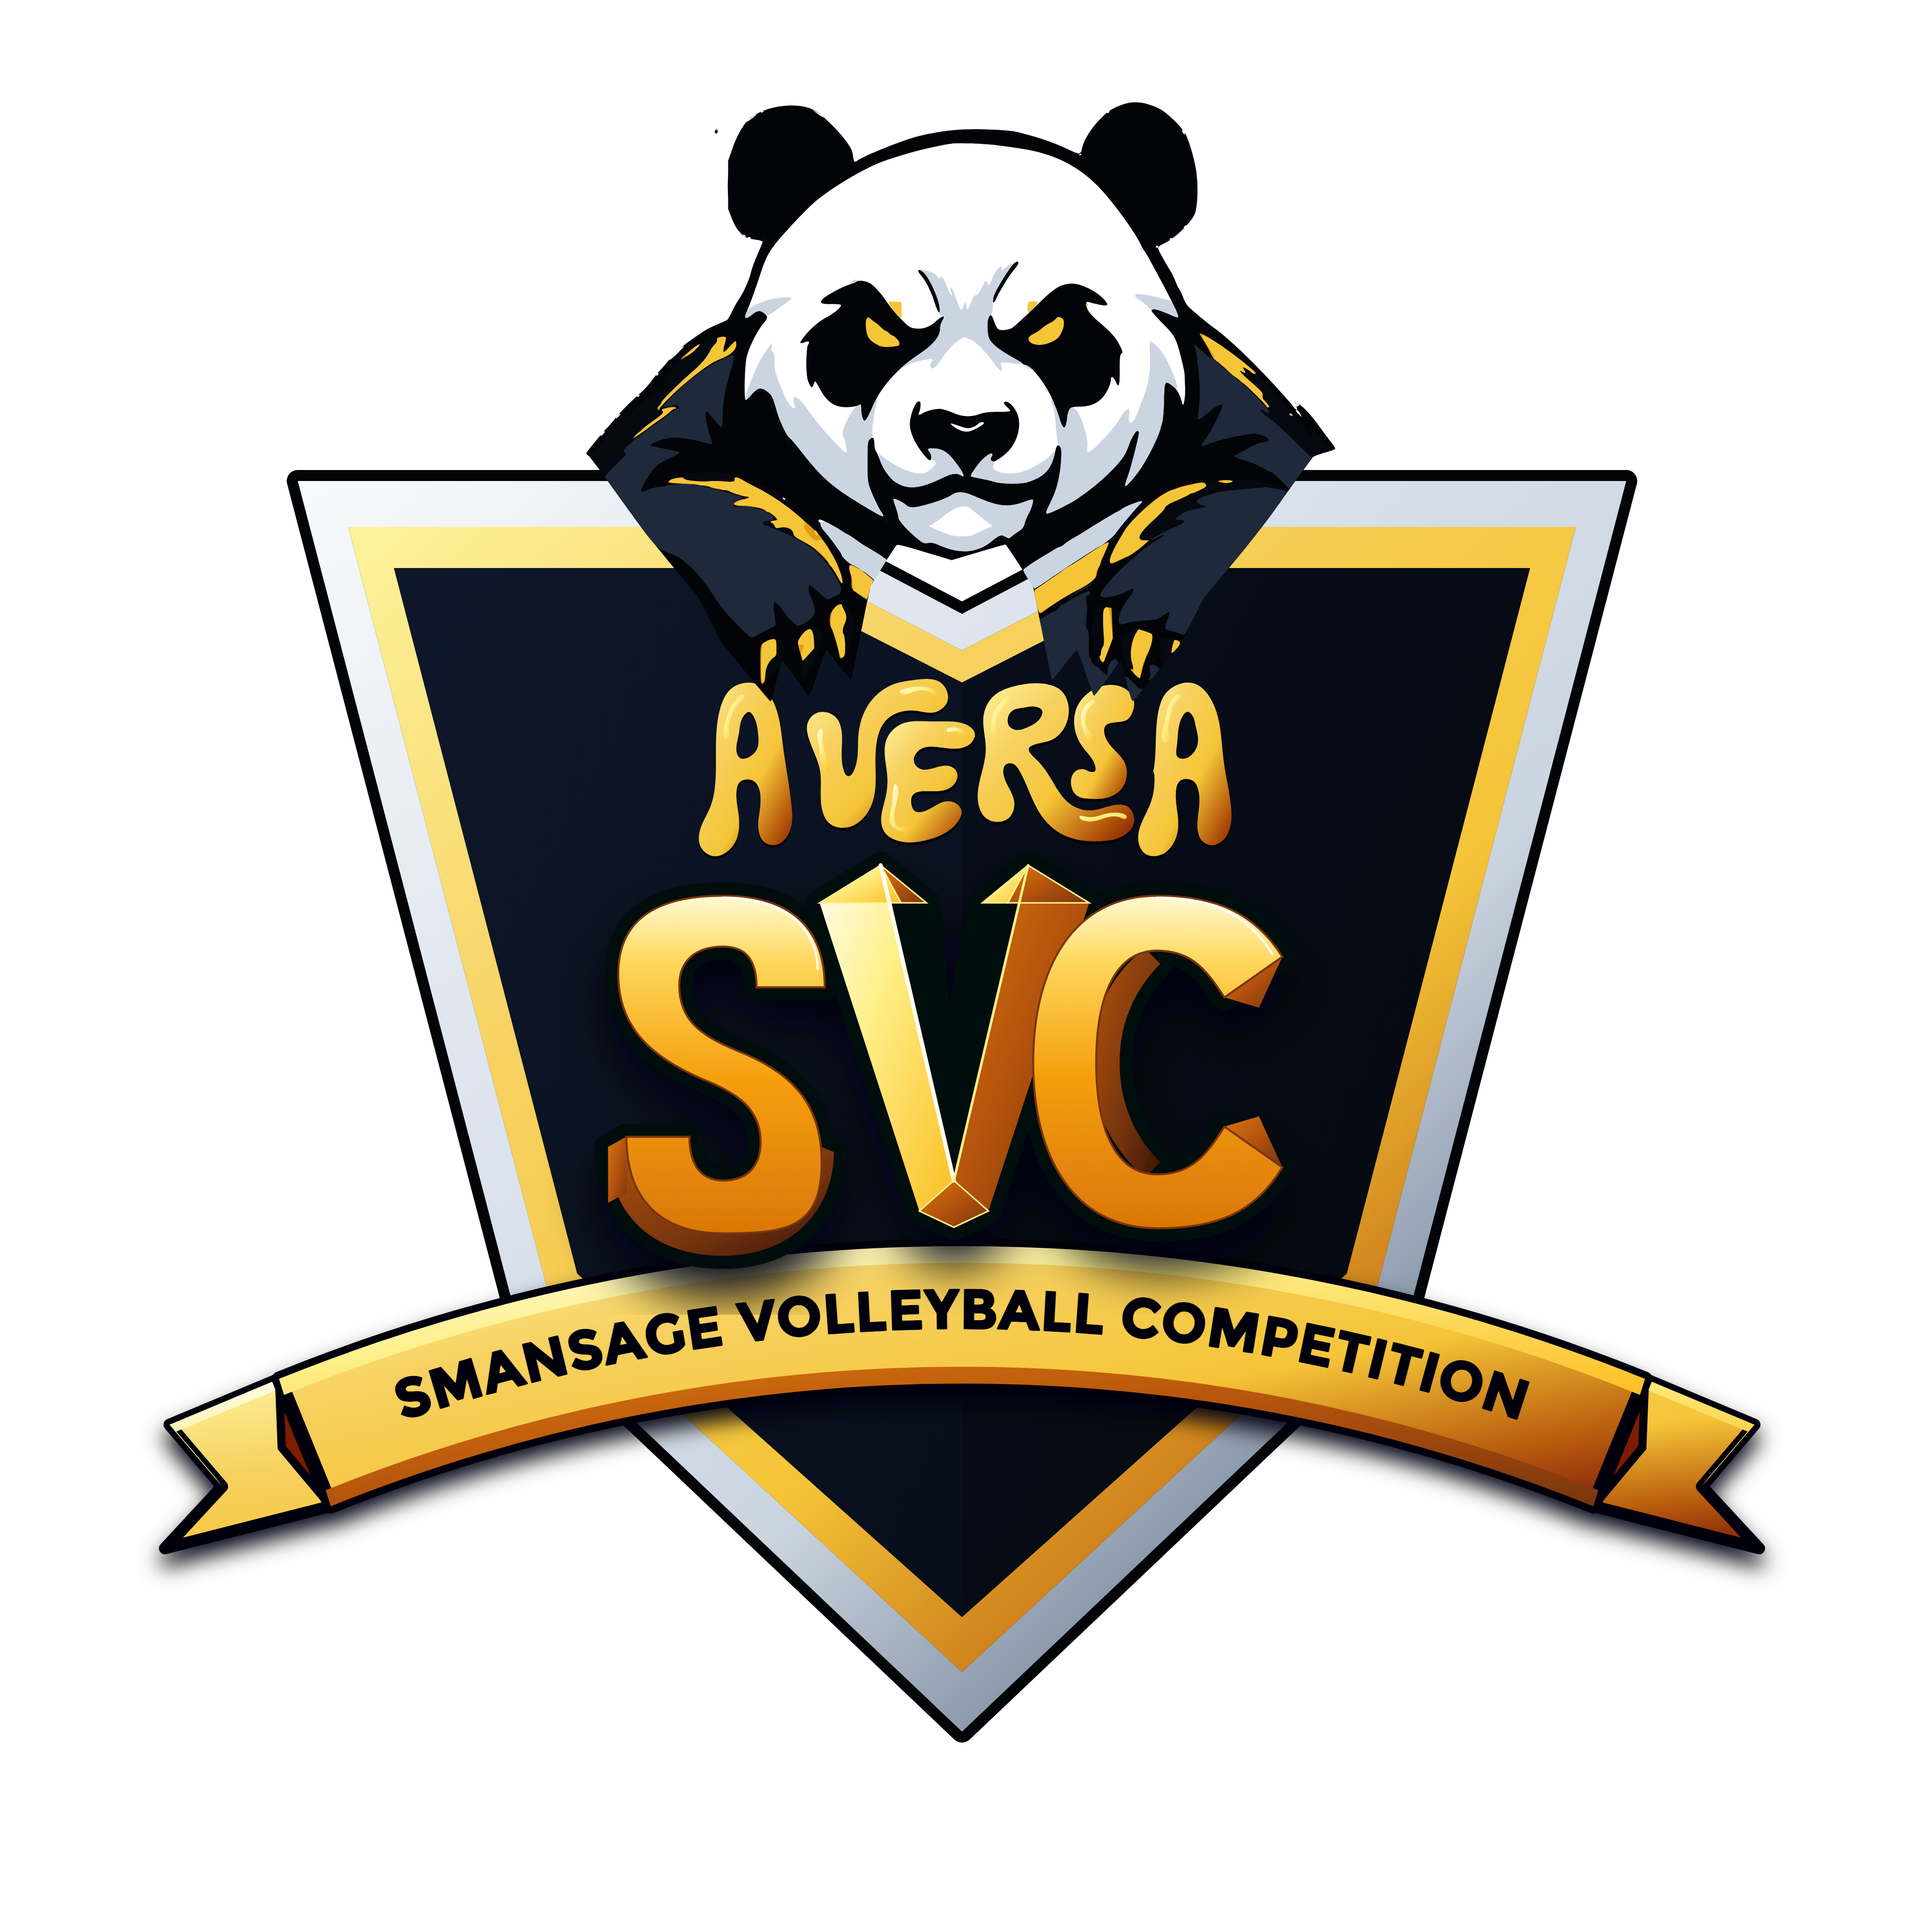
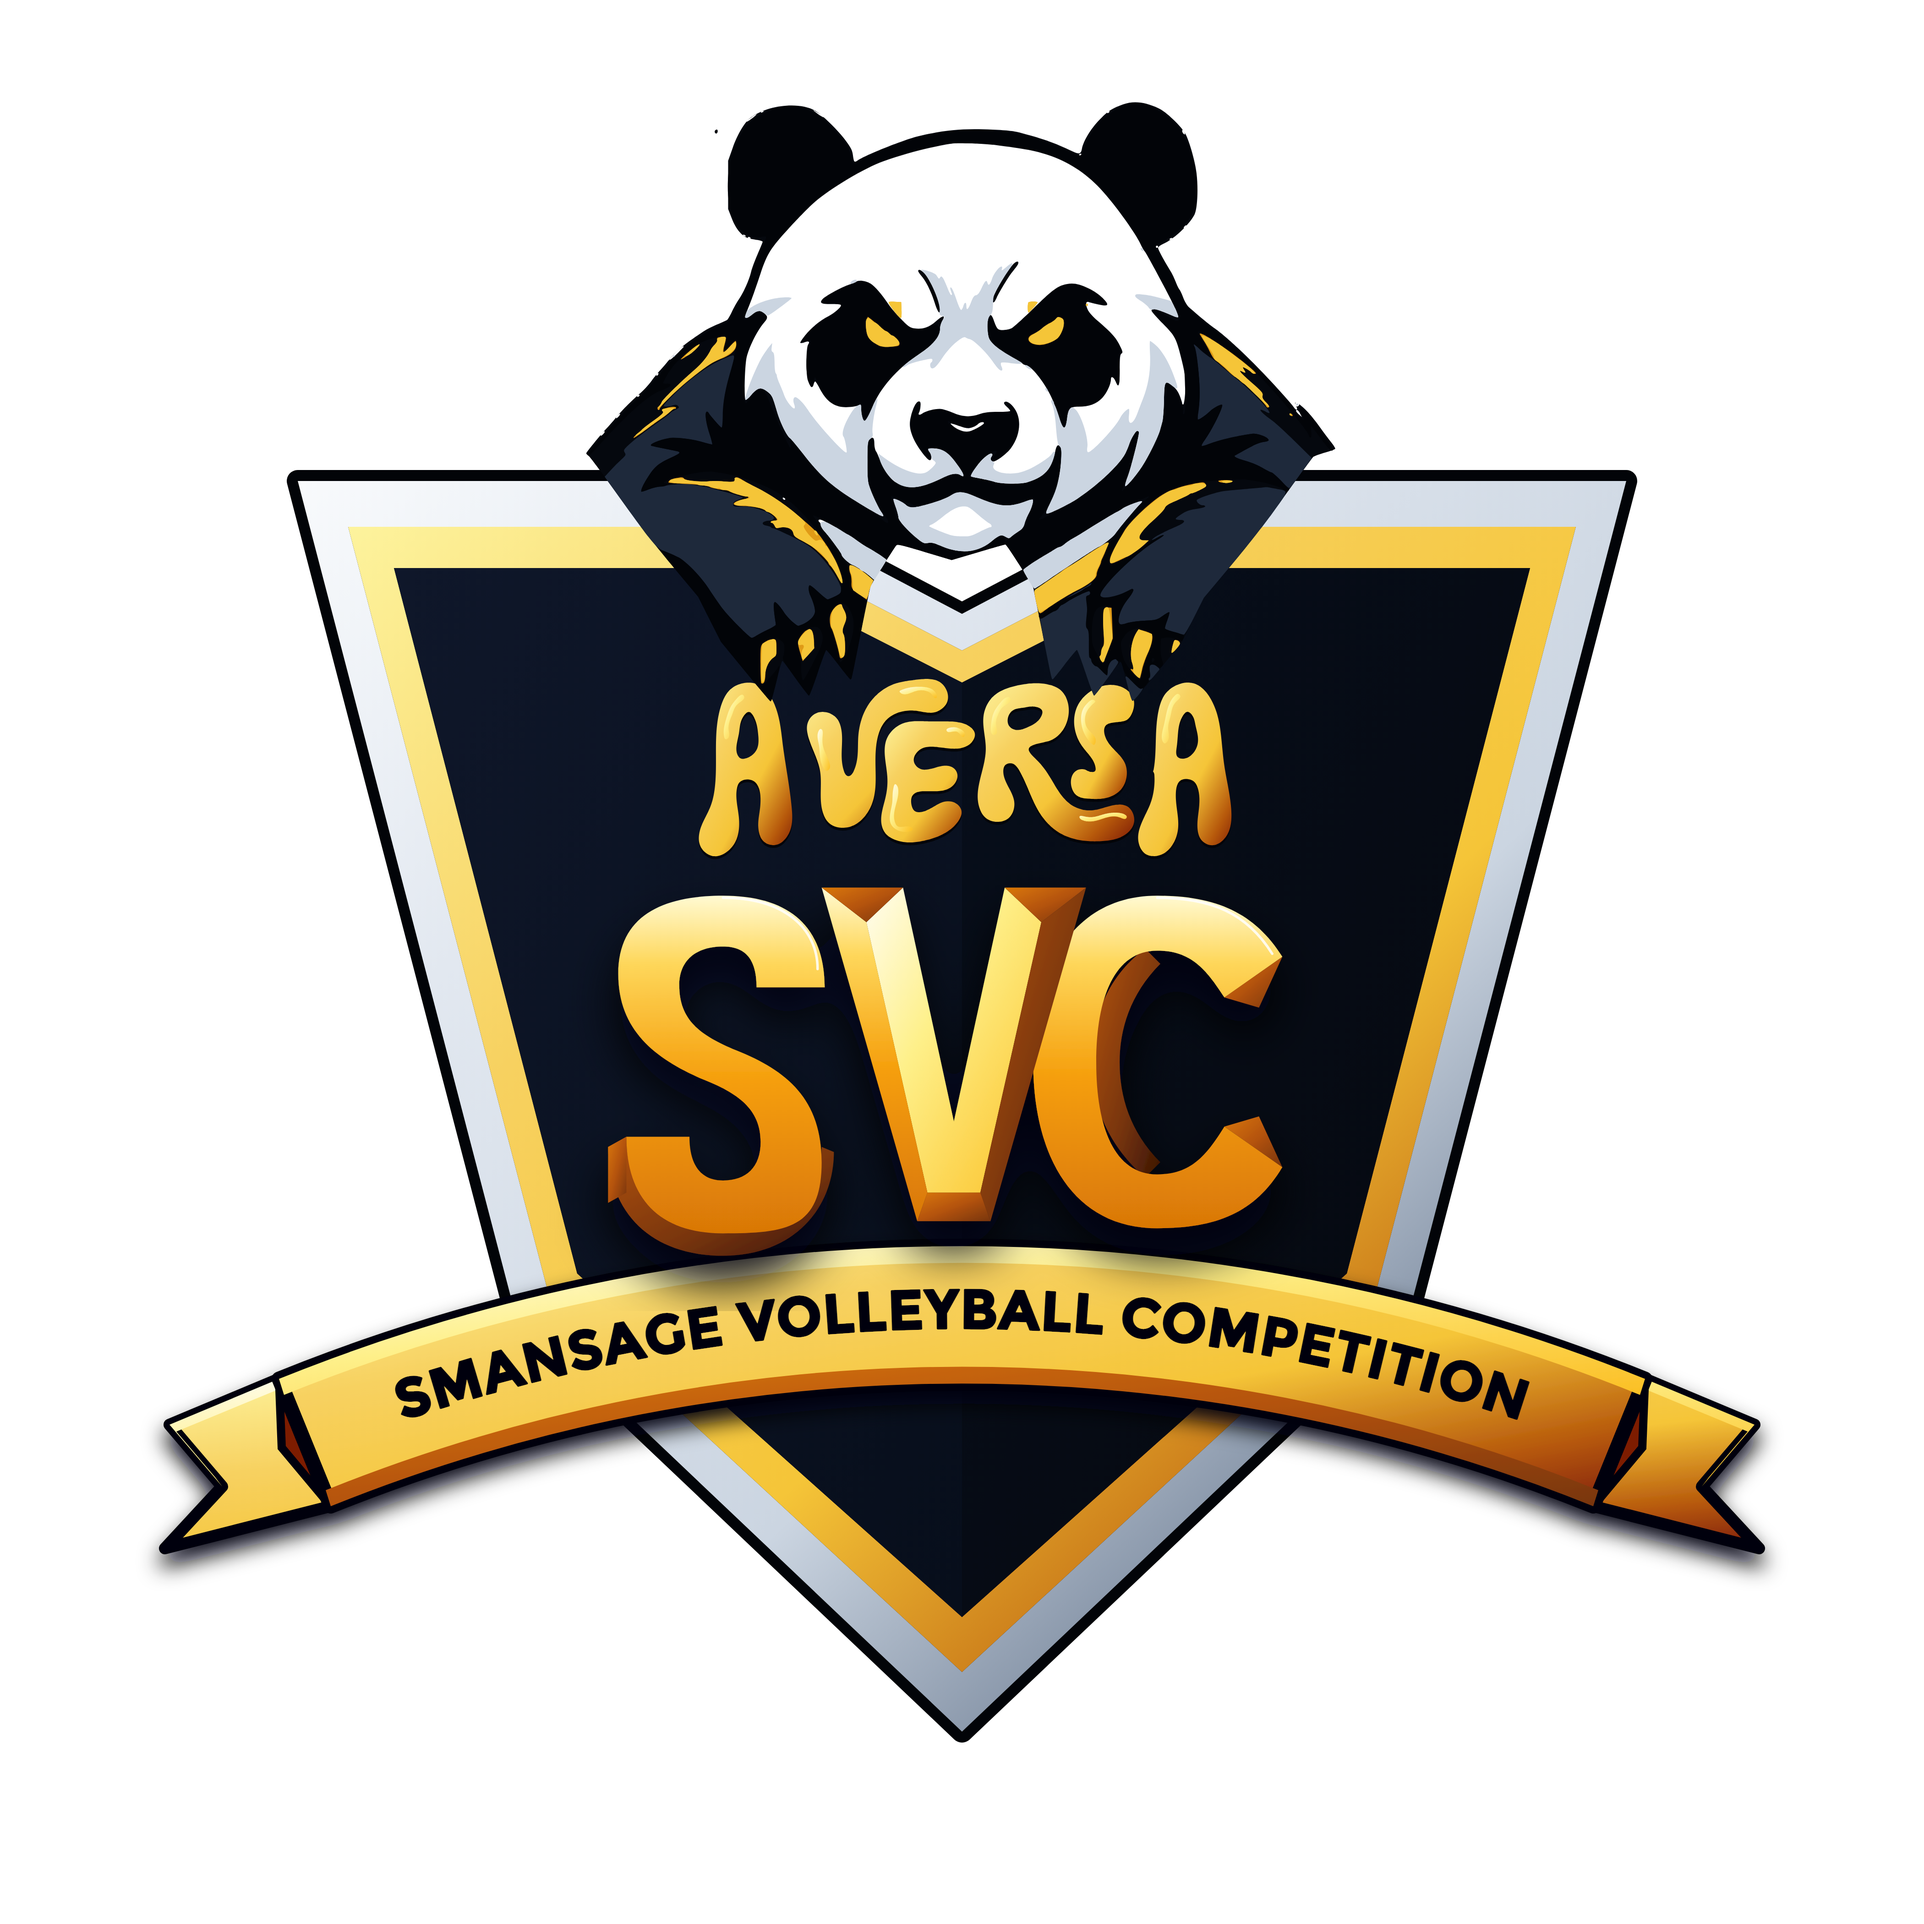
fix(svc): remove heavy black backplate outline and clean up smooth faceted V geometry matching hand draw

Changed region(s): [[0.4055, 0.4367, 0.5614, 0.6862], [0.3119, 0.6238, 0.4367, 0.6862], [0.5614, 0.6238, 0.655, 0.6862]]

diff --git a/v6_detailing/scripts/build_svc_crest_master.py b/v6_detailing/scripts/build_svc_crest_master.py
@@ -207,86 +207,62 @@ def build_chiseled_svc_svg(mode):
         light_fill = "url(#goldLightFacet)"
         dark_fill = "url(#goldDarkFacet)"
         depth_fill = "url(#goldDepth)"
-        bp_fill = "#05080E"
-        bp_stroke = "#05080E"
-        front_stroke = "#78350F"
-        spine_light = "#FFFDF0"
-        spine_gold = "#FEF08A"
+        poly_stroke = ""
         show_highlights = True
     elif is_white:
         face_fill = "#FFFFFF"
         light_fill = "#FFFFFF"
         dark_fill = "#E2E8F0"
         depth_fill = "#CBD5E1"
-        bp_fill = "#FFFFFF"
-        bp_stroke = "#000000"
-        front_stroke = "#000000"
-        spine_light = "#000000"
-        spine_gold = "#000000"
+        poly_stroke = ' stroke="#000000" stroke-width="3" stroke-linejoin="round"'
         show_highlights = False
     else:
         face_fill = "#94A3B8"
         light_fill = "#CBD5E1"
         dark_fill = "#475569"
         depth_fill = "#1E293B"
-        bp_fill = "#020408"
-        bp_stroke = "#020408"
-        front_stroke = "#334155"
-        spine_light = "#F8FAFC"
-        spine_gold = "#94A3B8"
+        poly_stroke = ""
         show_highlights = True
     
     lines = []
     
-    # 0. OBSIDIAN BACKPLATE / SPORT CONTOUR
-    lines.append('      <!-- 0. OBSIDIAN BACKPLATE SILHOUETTE -->')
-    lines.append(f'      <g id="svc-backplate" stroke="{bp_stroke}" stroke-width="26" stroke-linejoin="round" stroke-linecap="round" fill="{bp_fill}">')
-    lines.append('        <path d="M 175 88 C 242 88 275 120 275 178 L 208 178 C 208 148 195 138 175 138 C 148 138 132 152 132 176 C 132 210 152 225 188 240 C 238 260 272 288 272 350 C 272 415 238 420 175 420 C 112 420 80 385 80 325 L 142 325 C 142 355 155 368 175 368 C 198 368 212 355 212 330 C 212 298 190 282 154 268 C 108 248 72 220 72 165 C 72 108 115 88 175 88 Z"/>')
-    lines.append('        <path d="M 80 325 L 62 335 C 62 400 105 442 175 442 C 245 442 284 395 284 340 L 272 335 C 272 385 238 420 175 420 C 112 420 80 380 80 325 Z"/>')
-    lines.append('        <polygon points="270,95 330,58 375,95 402,368 436,398 402,414 368,398"/>')
-    lines.append('        <polygon points="430,95 475,58 535,95 436,398 402,368 368,398"/>')
-    lines.append('        <path d="M 725 148 L 668 188 C 650 160 635 142 602 142 C 560 142 542 188 542 252 C 542 316 560 362 602 362 C 635 362 650 344 668 315 L 725 355 C 698 400 660 415 602 415 C 520 415 480 345 480 252 C 480 158 520 88 602 88 C 660 88 698 105 725 148 Z"/>')
-    lines.append('        <path d="M 605 155 C 575 185 565 220 565 252 C 565 285 575 320 605 350 L 590 365 C 550 330 538 290 538 252 C 538 212 550 170 590 140 Z"/>')
+    # 1. LETTER S (Extrusions + Face)
+    lines.append('      <!-- 1. LETTER S -->')
+    lines.append('      <g id="letter-S">')
+    lines.append(f'        <path d="M 80 325 L 62 335 C 62 400 105 442 175 442 C 245 442 284 395 284 340 L 272 335 C 272 385 238 420 175 420 C 112 420 80 380 80 325 Z" fill="{depth_fill}"{poly_stroke}/>')
+    lines.append(f'        <polygon points="80,325 80,380 62,390 62,335" fill="{dark_fill}"{poly_stroke}/>')
+    lines.append(f'        <polygon points="275,178 208,178 245,148" fill="{dark_fill}"{poly_stroke}/>')
+    lines.append(f'        <path d="M 175 88 C 242 88 275 120 275 178 L 208 178 C 208 148 195 138 175 138 C 148 138 132 152 132 176 C 132 210 152 225 188 240 C 238 260 272 288 272 350 C 272 415 238 420 175 420 C 112 420 80 385 80 325 L 142 325 C 142 355 155 368 175 368 C 198 368 212 355 212 330 C 212 298 190 282 154 268 C 108 248 72 220 72 165 C 72 108 115 88 175 88 Z" fill="{face_fill}"{poly_stroke}/>')
     lines.append('      </g>')
     
-    # 1. 3D EXTRUSION DEPTH
-    lines.append('      <!-- 1. 3D EXTRUSION DEPTH -->')
-    lines.append('      <g id="svc-extrusion">')
-    lines.append(f'        <path d="M 80 325 L 62 335 C 62 400 105 442 175 442 C 245 442 284 395 284 340 L 272 335 C 272 385 238 420 175 420 C 112 420 80 380 80 325 Z" fill="{depth_fill}"/>')
-    lines.append(f'        <polygon points="80,325 80,380 62,390 62,335" fill="{dark_fill}"/>')
-    lines.append(f'        <polygon points="275,178 208,178 245,148" fill="{dark_fill}"/>')
-    lines.append(f'        <path d="M 605 155 C 575 185 565 220 565 252 C 565 285 575 320 605 350 L 590 365 C 550 330 538 290 538 252 C 538 212 550 170 590 140 Z" fill="{depth_fill}"/>')
-    lines.append(f'        <polygon points="725,148 668,188 702,198" fill="{dark_fill}"/>')
-    lines.append(f'        <polygon points="725,355 668,315 702,305" fill="{dark_fill}"/>')
+    # 2. LETTER C (Extrusions + Face)
+    lines.append('      <!-- 2. LETTER C -->')
+    lines.append('      <g id="letter-C">')
+    lines.append(f'        <path d="M 605 155 C 575 185 565 220 565 252 C 565 285 575 320 605 350 L 590 365 C 550 330 538 290 538 252 C 538 212 550 170 590 140 Z" fill="{depth_fill}"{poly_stroke}/>')
+    lines.append(f'        <polygon points="725,148 668,188 702,198" fill="{dark_fill}"{poly_stroke}/>')
+    lines.append(f'        <polygon points="725,355 668,315 702,305" fill="{dark_fill}"{poly_stroke}/>')
+    lines.append(f'        <path d="M 725 148 L 668 188 C 650 160 635 142 602 142 C 560 142 542 188 542 252 C 542 316 560 362 602 362 C 635 362 650 344 668 315 L 725 355 C 698 400 660 415 602 415 C 520 415 480 345 480 252 C 480 158 520 88 602 88 C 660 88 698 105 725 148 Z" fill="{face_fill}"{poly_stroke}/>')
     lines.append('      </g>')
-    
-    # 2. FRONT FACES (Smooth athletic curves & faceted prism)
-    lines.append('      <!-- 2. FRONT FACES (Smooth athletic curves & faceted prism) -->')
-    lines.append('      <!-- LETTER S FRONT -->')
-    lines.append('      <g id="letter-S-front">')
-    lines.append(f'        <path d="M 175 88 C 242 88 275 120 275 178 L 208 178 C 208 148 195 138 175 138 C 148 138 132 152 132 176 C 132 210 152 225 188 240 C 238 260 272 288 272 350 C 272 415 238 420 175 420 C 112 420 80 385 80 325 L 142 325 C 142 355 155 368 175 368 C 198 368 212 355 212 330 C 212 298 190 282 154 268 C 108 248 72 220 72 165 C 72 108 115 88 175 88 Z" fill="{face_fill}" stroke="{front_stroke}" stroke-width="2"/>')
-    lines.append('      </g>')
-    
-    lines.append('      <!-- LETTER V FRONT -->')
-    lines.append('      <g id="letter-V-front">')
-    lines.append(f'        <polygon points="270,95 330,58 402,368 368,398" fill="{light_fill}"/>')
-    lines.append(f'        <polygon points="475,58 535,95 436,398 402,368" fill="{dark_fill}"/>')
-    lines.append(f'        <polygon points="270,95 330,58 350,95" fill="{light_fill}" stroke="{spine_gold}" stroke-width="1.5"/>')
-    lines.append(f'        <polygon points="350,95 330,58 375,95" fill="{dark_fill}" stroke="{spine_gold}" stroke-width="1.5"/>')
-    lines.append(f'        <polygon points="430,95 475,58 455,95" fill="{light_fill}" stroke="{spine_gold}" stroke-width="1.5"/>')
-    lines.append(f'        <polygon points="455,95 475,58 535,95" fill="{dark_fill}" stroke="{spine_gold}" stroke-width="1.5"/>')
-    lines.append(f'        <polygon points="368,398 402,368 436,398 402,414" fill="{dark_fill}" stroke="{spine_gold}" stroke-width="1.5"/>')
-    lines.append(f'        <line x1="330" y1="58" x2="402" y2="368" stroke="{spine_light}" stroke-width="4" stroke-linecap="round"/>')
-    lines.append(f'        <line x1="475" y1="58" x2="402" y2="368" stroke="{spine_gold}" stroke-width="2.5" stroke-linecap="round"/>')
-    lines.append('      </g>')
-    
-    lines.append('      <!-- LETTER C FRONT -->')
-    lines.append('      <g id="letter-C-front">')
-    lines.append(f'        <path d="M 725 148 L 668 188 C 650 160 635 142 602 142 C 560 142 542 188 542 252 C 542 316 560 362 602 362 C 635 362 650 344 668 315 L 725 355 C 698 400 660 415 602 415 C 520 415 480 345 480 252 C 480 158 520 88 602 88 C 660 88 698 105 725 148 Z" fill="{face_fill}" stroke="{front_stroke}" stroke-width="2"/>')
+
+    # 3. LETTER V (Pure Faceted Prism - Flat Tops, Flat Bottom, Downward Facets)
+    lines.append('      <!-- 3. LETTER V (PURE FACETED PRISM MATCHING HAND DRAW) -->')
+    lines.append('      <g id="letter-V">')
+    # Inner V Cavity (Seamless unified bright gold cavity)
+    lines.append(f'        <polygon points="352,80 316,114 376,380 428,380 488,114 452,80 402,310" fill="{light_fill}"{poly_stroke}/>')
+    # Left Leg Outer Face
+    lines.append(f'        <polygon points="272,80 316,114 376,380 366,408" fill="{face_fill}"{poly_stroke}/>')
+    # Left Leg Top Bevel Facet (Downward Triangle)
+    lines.append(f'        <polygon points="272,80 352,80 316,114" fill="{dark_fill}"{poly_stroke}/>')
+    # Right Leg Outer Extrusion Facet
+    lines.append(f'        <polygon points="532,80 488,114 428,380 438,408" fill="{depth_fill}"{poly_stroke}/>')
+    # Right Leg Top Bevel Facet (Downward Triangle)
+    lines.append(f'        <polygon points="452,80 532,80 488,114" fill="{dark_fill}"{poly_stroke}/>')
+    # Bottom Trapezoid Bevel Facet
+    lines.append(f'        <polygon points="376,380 428,380 438,408 366,408" fill="{dark_fill}"{poly_stroke}/>')
     lines.append('      </g>')
     
     if show_highlights:
-        lines.append('      <!-- 3. SPECULAR HIGHLIGHTS -->')
+        lines.append('      <!-- 4. SPECULAR HIGHLIGHTS -->')
         lines.append('      <g id="specular-highlights" stroke="#FFFFFF" stroke-width="2.5" stroke-linecap="round" fill="none" opacity="0.85">')
         lines.append('        <path d="M 175 90 C 235 90 268 120 268 160"/>')
         lines.append('        <path d="M 602 90 C 655 90 690 105 715 145"/>')
